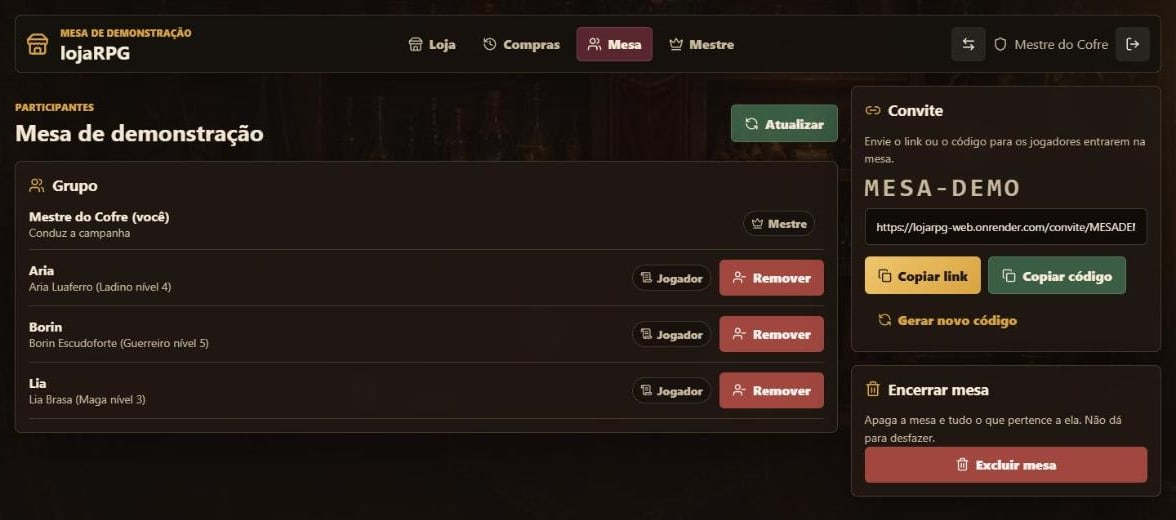
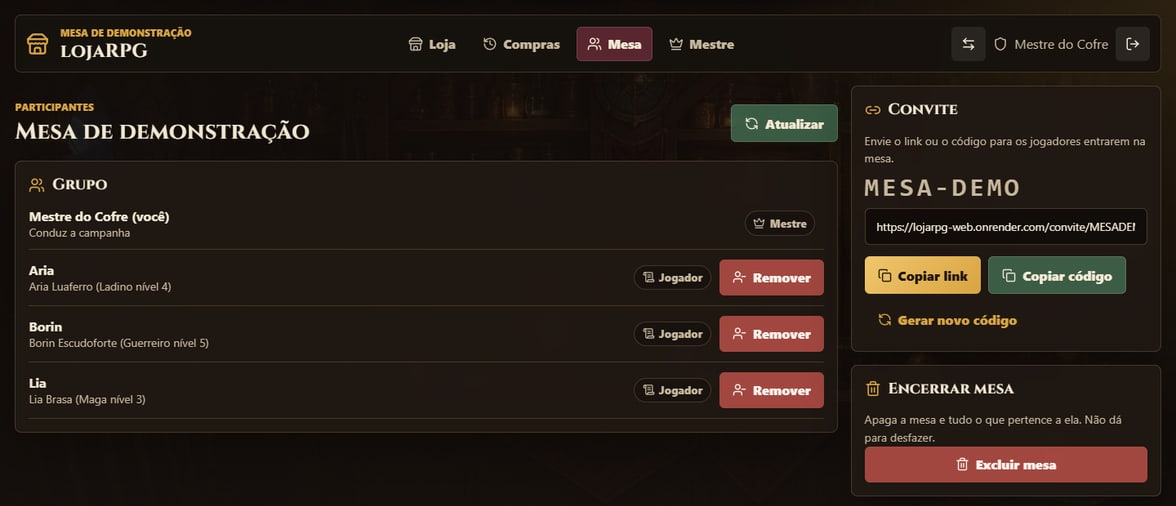
docs: prints, GIF e README com a interface nova
Print novo da tela de entrada com os botoes da demonstracao; loja, aba Mesa
e painel do Mestre com os cards por raridade, a fonte nova e as abas; GIF
que comeca na tela de entrada. As imagens agora sao capturadas num Chrome
headless a 1440x880. README e DEPLOY descrevem a entrada da demonstracao,
o VITE_DEMO_LOGIN, o painel em abas e os blocos de carregamento.

diff --git a/README.md b/README.md
@@ -10,6 +10,9 @@ deles. Catálogo, inventário e histórico de compras são separados por mesa.
 
 **Demonstração online:** <https://lojarpg-web.onrender.com>
 
+Na tela de entrada, os botões **Entrar como jogador** e **Entrar como Mestre**
+abrem a mesa de demonstração sem digitar senha. As contas são estas:
+
 | Perfil | Email | Senha |
 | --- | --- | --- |
 | Jogador | aria@lojarpg.local | jogador123 |
@@ -22,7 +25,10 @@ crie uma mesa e convide alguém. Mesas criadas por outras contas não são
 apagadas no reset.
 
 A demonstração roda no plano gratuito do Render: depois de 15 minutos sem
-acesso, a API leva cerca de 1 minuto para acordar.
+acesso, a API leva cerca de 1 minuto para acordar. Enquanto isso, a tela mostra
+blocos de carregamento e avisa que a API está acordando.
+
+![Tela de entrada com os botões da demonstração](docs/images/tela-entrada.jpg)
 
 ![Loja com o carrinho da personagem Aria](docs/images/loja-carrinho.jpg)
 
@@ -50,7 +56,9 @@ personagem.
 **Jogador**
 
 - Personagens por mesa, com vários por conta.
-- Catálogo com busca (que ignora acentos) e filtro por categoria.
+- Catálogo com busca (que ignora acentos) e filtro por categoria; cada item
+  tem a cor da raridade (comum, incomum, raro, muito raro, lendário) e um ícone
+  pela categoria.
 - Carrinho e compra com o ouro do personagem ativo; no celular, uma barra no
   rodapé leva ao carrinho.
 - Venda de itens à loja pela regra do D&D 5e (metade do preço) ou pelo valor
@@ -63,6 +71,7 @@ personagem.
 
 **Mestre**
 
+- Painel em abas: grupo e ouro, itens, catálogo e históricos.
 - Cadastro, edição, remoção e reativação de itens.
 - Categorias e raridades próprias; ao remover uma em uso, os itens são
   realocados.
@@ -120,6 +129,9 @@ pede participa da mesa e qual é o papel dele nela.
   visível, o front recarrega os dados a cada 10 segundos; aba escondida não faz
   requisições. Para quatro pessoas numa mesa isso basta, e funciona no plano
   gratuito do Render, que dorme e derrubaria conexões abertas.
+- **Primeira impressão no plano gratuito.** Enquanto a API acorda, a tela
+  mostra blocos no formato do conteúdo e, depois de 4 segundos, explica a
+  demora, em vez de parecer travada.
 - **Segredo verificado na inicialização:** em produção, a API não sobe com um
   `JWT_SECRET` curto ou igual aos exemplos do repositório.
 - **CI no GitHub Actions** a cada push: testes do back-end com PostgreSQL e
@@ -267,7 +279,10 @@ lojaRPG/
       middlewares/ autenticação, mesa e papel, erros e rate limit
     tests/
   frontend/
-    src/           páginas, componentes e chamadas à API
+    src/
+      pages/       telas (loja, mesas, painel do Mestre...)
+      components/  cards, painéis e as abas do painel do Mestre (admin/)
+      js/          cliente da API e hooks
   docker/          inicialização do PostgreSQL local
   docs/images/     capturas de tela
   .github/         workflow de CI

diff --git a/DEPLOY.md b/DEPLOY.md
@@ -45,6 +45,9 @@ Limites do plano gratuito:
   não são tocadas, então dá para usar o mesmo site com um grupo de verdade.
   Para desligar a demonstração, mude essa variável para `false` no painel do
   Render.
+- Os botões "Entrar como jogador" e "Entrar como Mestre" da tela de entrada
+  usam as contas da demonstração. Sem demonstração, defina
+  `VITE_DEMO_LOGIN=false` no front-end e refaça o deploy dele para escondê-los.
 
 ## Produção local com Docker
 
